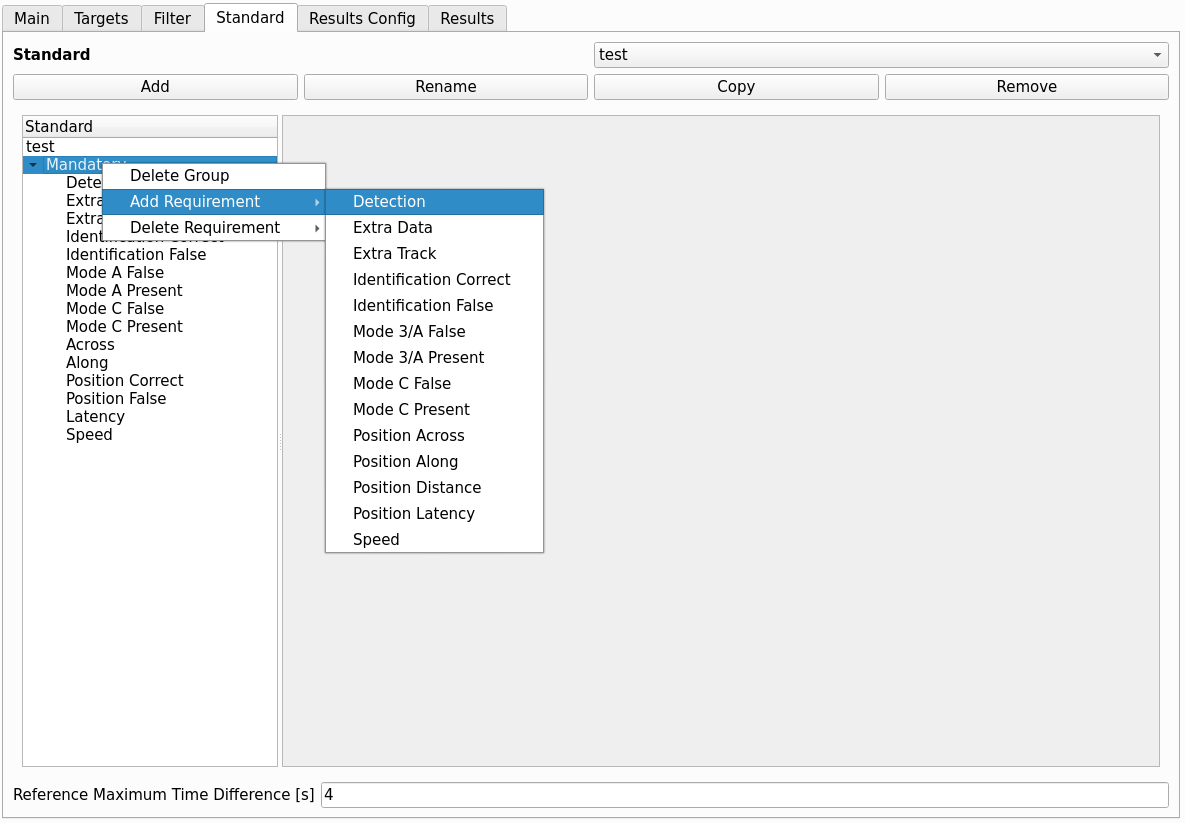
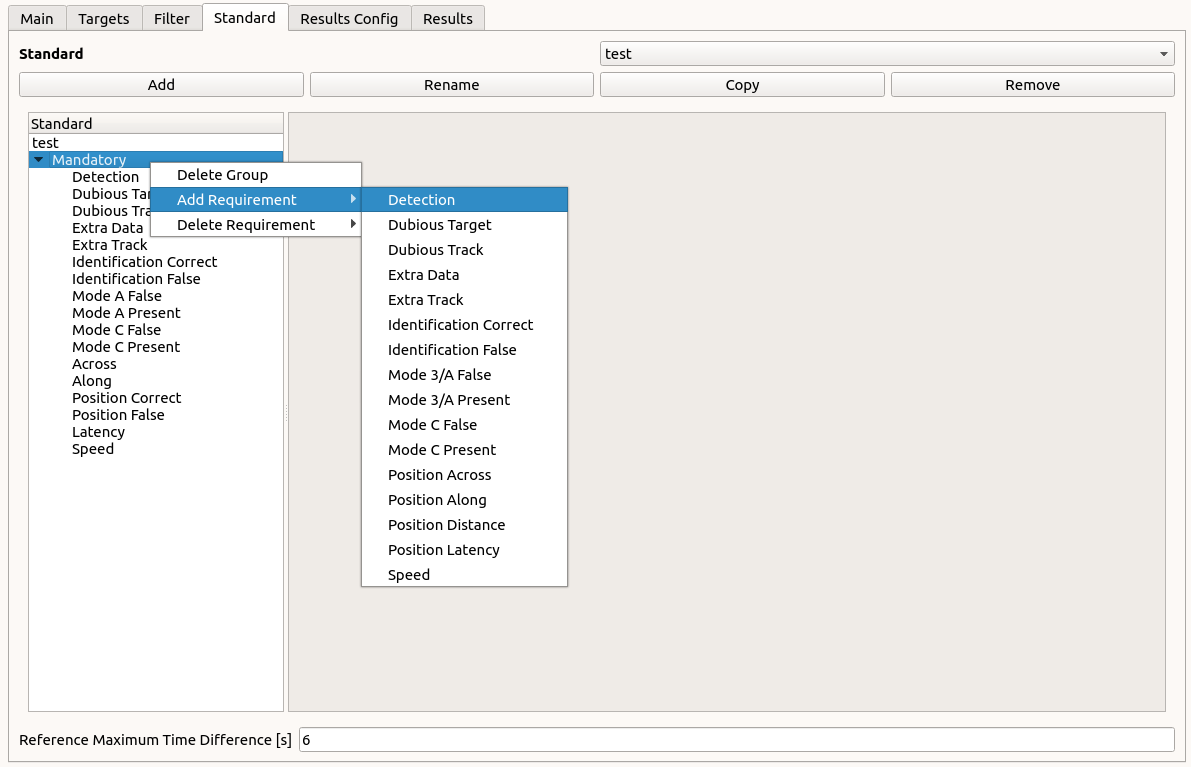
doc update

Changed region(s): [[0.0, 0.0, 0.9992, 1.0]]

diff --git a/doc/user_manual/eval/eval_requirements.tex b/doc/user_manual/eval/eval_requirements.tex
@@ -81,7 +81,136 @@ Also, a table is given for all single targets, sorted by PD.
 \end{table}
 \end{center}
 
-%TODOV7 add dubious targets
+%-------
+
+\subsection{Dubious Targets}
+\label{sec:eval_req_dubious_targets} 
+
+\subsubsection{Configuration}
+
+\begin{figure}[H]
+    \includegraphics[width=14cm,frame]{figures/eval_req_dubious_targets.png}
+   \caption{Evaluation Dubious Targets}
+\end{figure}
+
+The 'Dubious Targets' requirement can be used to check for dubious for dubious movement from data-source. This requirement checks based on test data only, so the reference data is of no importance. \\
+
+For each track number (existing in an UTN) a number of checks are performed, and a probability of dubious target report is calculated. Which checks are used can be defined as follows, but are focused on short tracks or physically dubious movement. \\
+
+\begin{itemize}  
+\item Probability [1]: Probability of dubious target
+\item Probability Check Type: $\geq$
+\item Minimum Comparison Time [s]: Skip movement checks if time between updates is smaller than the defined time
+\item Maximum Comparison Time [s]: Skip movement checks if time between updates is larger than the defined time
+\item Mark Primary-Only: Checkbox if all primary-only tracks should be counted as dubious
+\item Use Minimum Updates: Checkbox if tracks with less than the defined number of updates should be counted as dubious
+\item Minimum Updates [1]: Minimum number of updates
+\item Use Minimum Duration: Checkbox if tracks with a duration less than the defined time should be counted as dubious
+\item Minimum Duration [s]: Minimum duration
+\item Use Maximum Groundspeed: Checkbox if maximum groundspeed should be used
+\item Maximum Groundspeed [kts]: Maximum groundspeed to be considered
+\item Use Maximum Acceleration: Checkbox if maximum acceleration should be used
+\item Maximum Acceleration [$m/s^{2}$]: Maximum acceleration to be considered
+\item Use Maximum Turnrate: Checkbox if maximum turnrate should be used
+\item Turnrate Groundspeed [deg/s]: Maximum groundspeed to be considered
+\item Use Maximum ROCD: Checkbox if turnrate rate of climb/descent should be used
+\item Maximum ROCD [ft/s]: Maximum  rate of climb/descent to be considered
+\item Dubious Probability [1]: Probability of dubious target report to classify a track as dubious
+\end{itemize}
+\ \\
+
+\subsubsection{Calculation}
+
+As a summary, the test data is used to calculate the number of dubious targets in relation to the total number of targets, which gives the probability of dubios target (PDT). If this probability is larger than the required one, the requirement is failed. \\
+
+A track is be ignored (from dubious detection) if the last-updating sensor parameter is active, and the track was updated by at any point by any other sensor. \\
+
+The total track updates are marked as dubious if any of the following cases hold:
+\begin{itemize}  
+\item 'Mark Primary-Only' is used, and the track is always primary-only (no secondary attributes)
+\item 'Minimum Updates' are used, and the number of track updates is smaller than the required threshold
+\item 'Minimum Duration' is used, and the duration of the track is smaller than the required threshold
+\end{itemize}
+\ \\
+
+For the movement checks, for each track update the movement is checked. If the Minimum/Maximum Comparison Time check fails, the respective track update is skipped (not checked). \\ 
+
+The following checks can be performed:
+\begin{itemize}  
+\item 'Maximum Groundspeed': The track update's groundspeed (as output from the data source, as well as calculated from position differences) is checked against the threshold
+\item 'Maximum Acceleration': The track update's groundspeed derivative (difference to the previous value divided by time delta) is checked against the threshold
+\item 'Maximum Turnrate': The track update's track-angle derivative (difference to the previous value divided by time delta) is checked against the threshold
+\item 'Maximum ROCD': The track update's Mode C derivative (difference to the previous value divided by time delta) is checked against the threshold
+\end{itemize}
+\ \\
+
+For each track, the number of target reports failing the movement checks (PDU) is calculated and the ratio to the total number of track updates is calculated. If this ratio is larger than the 'Dubious Probability', the track is marked as dubious.
+
+\subsubsection{Result Values}
+
+\paragraph{Sector}
+
+\begin{center}
+ \begin{table}[H]
+  \begin{tabularx}{\textwidth}{ | l | X |  l | }
+    \hline
+    \textbf{Name} & \textbf{Description} & \textbf{Example} \\ \hline
+    Sector Layer & Name of the sector layer & fir\_body\_cut \\ \hline
+    Reqirement Group & Name of the requirement group & Required \\ \hline
+    Reqirement & Name of the requirement & Dubious \\ \hline
+    Num Results & Total number of results & 690 \\ \hline
+    Num Usable Results & Number of usable results & 504 \\ \hline
+    Num Unusable Results & Number of unusable results & 186 \\ \hline
+    Use & To be used in results & true \\ \hline
+    \#Pos [1] & Number of updates & 44697 \\ \hline
+    \#PosInside [1] & Number of updates inside sector & 33498 \\ \hline
+    \#PosOutside [1] & Number of updates outside sector & 11199 \\ \hline
+    \#DU [1] & Number of dubious updates inside sector & 2691 \\ \hline
+    PDU [\%] & Probability of dubious update & 8.03 \\ \hline
+    \#T [1] & Number of targets & 594 \\ \hline
+    \#DT [1] & Number of dubious targets & 394 \\ \hline
+    Duration [s] & Duration of all targets & 129462.93 \\ \hline
+    Duration Dubious [s] & Duration of dubious targets & 14551.83 \\ \hline
+    Duration Non-Dubious [s] & Duration of non-dubious targets & 114911.10 \\ \hline
+    Average Duration Dubious [s] & Average duration of dubious targets & 36.93 \\ \hline
+    Duration Ratio Dubious [\%] & Duration ratio of dubious targets & 11.24 \\ \hline
+    Duration Ratio Non-Dubious [\%] & Duration ratio of non-dubious targets & 88.76 \\ \hline
+    PDT [\%] & Probability of dubious target & 66.33 \\ \hline
+    Condition &  & <= 90.00 \\ \hline
+    Condition Fulfilled &  & Passed \\ \hline
+\end{tabularx}
+\end{table}
+\end{center}
+
+Also, a table is given for all single targets, sorted by PDT.
+
+\paragraph{Single Target}
+
+\begin{center}
+ \begin{table}[H]
+  \begin{tabularx}{\textwidth}{ | l | X |  l | }
+    \hline
+    \textbf{Name} & \textbf{Description} & \textbf{Example} \\ \hline
+    Use & To be used in results & true \\ \hline
+    \#Up [1] & Number of updates & 354 \\ \hline
+    \#PosInside [1] & Number of updates inside sector & 354 \\ \hline
+    \#PosOutside [1] & Number of updates outside sector & 0 \\ \hline
+    \#DU [1] & Number of dubious updates inside sector & 33 \\ \hline
+    PDU [\%] & Probability of dubious update & 9.32 \\ \hline
+    \#T [1] & Number of targets & 7 \\ \hline
+    \#DT [1] & Number of dubious targets & 4 \\ \hline
+    Duration [s] & Duration of all targets & 1339.86 \\ \hline
+    Duration Dubious [s] & Duration of dubious targets & 92.50 \\ \hline
+    Duration Non-Dubious [s] & Duration of non-dubious targets & 1247.36 \\ \hline
+    Average Duration Dubious [s] & Average duration of dubious targets & 23.13 \\ \hline
+    Duration Dubious Ratio [\%] & Duration ratio of dubious targets & 6.9 \\ \hline
+    Duration Non-Dubious Ration [\%] & Duration ratio of non-dubious targets & 93.1 \\ \hline
+    PDT [\%] & Probability of dubious target &  \\ \hline
+    Condition &  & <= 90.00 \\ \hline
+    Condition Fulfilled &  & Failed \\ \hline
+\end{tabularx}
+\end{table}
+\end{center}
 
 \subsection{Dubious Tracks}
 \label{sec:eval_req_dubious_tracks} 

diff --git a/doc/user_manual/user_manual.tex b/doc/user_manual/user_manual.tex
@@ -289,88 +289,6 @@
 
 \subfile{appendix/appendix}
 
-%\section{Glossary}
-%Buffer
-%Dynamic data container, e.g. for DBO data items.
-%Configurable
-%Component which is configurable using an sophisticated XML-based configuration.
-%CPU
-%Central Processing Unit; main computational unit of any workstation.
-%DBO
-%DataBaseObject; an object with a set of variables to be stored in and read from the database, e.g. Plots, System Tracks.
-%DBO data item
-%One item of a specific DBO, e.g. Radar plot message, System Track status update.
-%DBO meta variable
-%Variable that binds together a number of DBO variables. 
-%DBO variable
-%Variable that exists in all DBO data items.
-%DBStorage
-%GPU
-%Graphics Processing Unit; main computational unit of a graphics card.
-%GUI
-%Graphical User Interface
-%ListBoxView
-%View that displays any DBO data in a table structure.
-%Pipeline
-%Architectural equivalent of an assemly line, a number of seperate components execute a number of disjoint jobs in %parallel.
-%ResultSet
-%Collection of DBO data items.
-%SASS-C
-%Surveillance Analysis Support System for ATC-Centre; A software toolbox developed by EUROCONTROL to provide standardised %methods and tools for assessing the performance of Surveillance
-%infrastructures.
-%View
-%Visualization of aspects of the result set.
-%WorkerThread
-%Additional thread that executes TransformationJobs.
-
-
-%%%%%%%%%%%%%%%%%%%%%%%%%%%%%%%%
-%%\endinput
-%%%%%%%%%%%%%%%%%%%%%%%%%%%%%%%
-
-%%%%%%%%% end mbooka
-%%%%%%%%%%%%%%%%%%%%%%%%%%%%%%%%%%%%%%%%%%%%%%%%%%%%%%%%%%%%
-
-% back end
-%\backmatter
-
-%\PWnote{2009/07/08}{Changed \cs{toclevel@section} so that Notes 
-                    %divisions appear in the bookmarks}
-%\makeatletter\renewcommand*{\toclevel@chapter}{-1}\makeatother 
-%\makeatletter\renewcommand*{\toclevel@section}{0}\makeatother
-%\clearpage
-%\printpagenotes
-%\clearpage
-%\pagestyle{plainmarkruled}
-%%\chapterstyle{section}
-
-%\renewcommand*{\begintheglossaryhook}{\small}
-%%%\glossaryintoc
-%\printglossary
-
-
-%\clearpage
-%\twocolindex
-%\pagestyle{index}
-%\renewcommand{\chaptermark}[1]{}
-%\renewcommand{\preindexhook}{%
-%The first page number is usually, but not always, the primary reference to
-%the indexed topic.\vskip\onelineskip}
-%\indexintoc
-
-%%%\raggedright  does nasty things to index entries
-%\printindex
-
-%\onecolindex
-%\renewcommand*{\preindexhook}{}
-%\renewcommand*{\indexname}{Index of first lines}
-%%%\indexintoc
-%\printindex[lines]
-
-%\cleardoublepage
-%\pagestyle{empty}
-%\null\vfil
-
 \end{document}
 
 \endinput

diff --git a/doc/user_manual/eval/evaluation.tex b/doc/user_manual/eval/evaluation.tex
@@ -282,8 +282,10 @@ The following requirements exist:
     \hline
     \textbf{Type} & \textbf{Description} \\ \hline
     \nameref{sec:eval_req_detection} & Calculates probability of detection  \\ \hline
-    \nameref{sec:eval_req_extra_data} & Calculates probability of unused test data (test data w/o reference data) \\ \hline
-    \nameref{sec:eval_req_extra_track} & Calculates probability of undetected tracks (reference data w/o test data) \\ \hline
+    \nameref{sec:eval_req_dubious_targets} & Calculates probability of dubious targets based on physical movement (based on test data only) \\ \hline
+    \nameref{sec:eval_req_dubious_tracks} & Calculates probability of dubious tracks from Trackers (based on test data only) \\ \hline
+    \nameref{sec:eval_req_extra_data} & Calculates probability of unused test data (based on test data only) \\ \hline
+    \nameref{sec:eval_req_extra_track} & Calculates probability of undetected tracks (based on reference data only) \\ \hline
     \nameref{sec:eval_req_id_correct} & Calculates probability of correct secondary identification \\ \hline
     \nameref{sec:eval_req_id_false} & Calculates probability of false secondary identification \\ \hline
     \nameref{sec:eval_req_m3a_false} & Calculates probability of false Mode 3/A code \\ \hline
